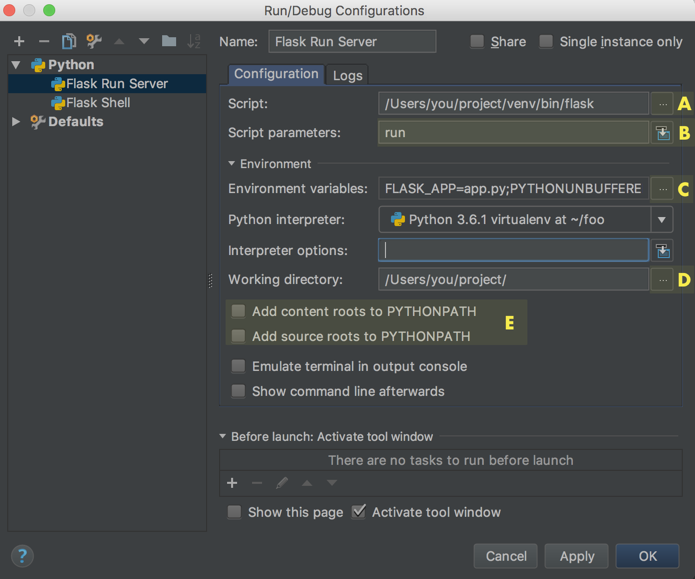
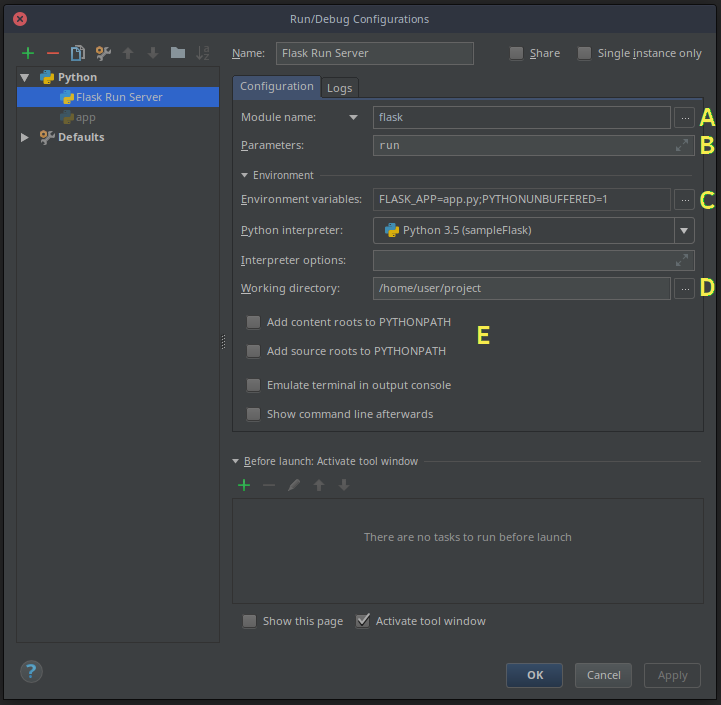
update pycharm instructions

diff --git a/docs/cli.rst b/docs/cli.rst
@@ -359,11 +359,10 @@ There's quite a few options to change, but once we've done it for one command,
 we can easily copy the entire configuration and make a single tweak to give us
 access to other commands, including any custom ones you may implement yourself.
 
-For the *Script* input (**A**), navigate to your project's virtual environment.
-Within that folder, pick the ``flask`` executable which will reside in the
-``bin`` folder, or in the ``Scripts`` on Windows.
+Since PyCharm 2017.3, you can run modules instead of needing to find ``flask``
+executable. For the *Module name* input (**A**), you just need to input ``flask``.
 
-The *Script Parameter* field (**B**) is set to the CLI command you to execute.
+The *Parameters* field (**B**) is set to the CLI command you to execute.
 In this example we use ``run``, which will run the development server.
 
 You can skip this next step if you're using :ref:`dotenv`. We need to add an
